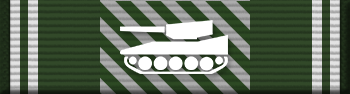
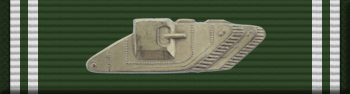
Added meetup ribbons
Also updated remaining ribbon images

diff --git a/public/partials/commendations.php b/public/partials/commendations.php
@@ -353,6 +353,18 @@ function tcbp_public_archive_commendations() {
 					);
 				}
 			}
+
+			$list_of_awards = get_field( 'meetups', $post );
+			if ( $list_of_awards ) {
+				foreach ( $list_of_awards as $award ) {
+					$index = $award['value'];
+					$list_of_meetup_recipients[ $index ][] = $user_id;
+					$list_of_meetup_titles[ $index ]       = array(
+						'title' => $award['label'],
+						'slug'  => $index,
+					);
+				}
+			}
 		}
 
 		// $list_of_leadership_titles/$list_of_mention_in_despatches_titles/$list_of_mission_creation_titles
@@ -484,6 +496,25 @@ function tcbp_public_archive_commendations() {
 			}
 			echo '</div>';
 		}
+
+		if ( ! empty( $list_of_meetup_titles ) ) {
+			echo '<div class="tcb_award">';
+			echo '<h4>Meetups</h4>';
+			ksort( $list_of_meetup_titles );
+			$column = 0;
+			foreach ( $list_of_meetup_titles as $key => $title ) {
+				echo '<div class="tcb_award_col' . esc_attr( $column + 1 ) . '">';
+				tcbp_public_commendation_image( $path . $key . '.png', $title['title'], $title['slug'], $width, $height );
+				echo '<ul>';
+				foreach ( tcbp_public_sort_user_ids_by_display_name( $list_of_meetup_recipients[ $key ] ) as $entry ) {
+					echo '<li><a href="/service-record/service-record-' . esc_attr( $entry['user_id'] ) . '">' . esc_html( $entry['display_name'] ) . '</a></li>';
+				}
+				$column = ( ++$column ) % 3;
+				echo '</ul>';
+				echo '</div>';
+			}
+			echo '</div>';
+		}
 	}
 	wp_reset_postdata();
 	echo '</div>';
@@ -525,7 +556,7 @@ function tcbp_public_commendation_descriptions() {
 		'leadership_commendations' => array( 'troop', 'section', 'fireteam', 'patrol', 'asset' ),
 	);
 
-	$groups = array( 'campaign_medals', 'leadership_commendations', 'mention_in_despatches', 'mission_creation', 'community_awards' );
+	$groups = array( 'campaign_medals', 'leadership_commendations', 'mention_in_despatches', 'mission_creation', 'community_awards', 'meetups' );
 	foreach ( $groups as $group_slug ) {
 		tcbp_public_commendation_descriptions_group(
 			$group_slug,
